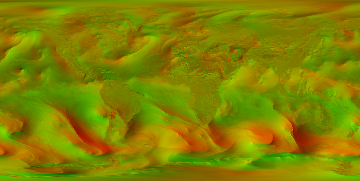
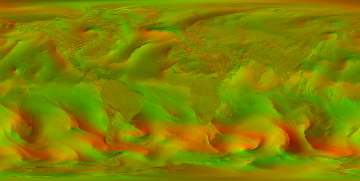
Altitude wind levels: Sfc/850/500/250 hPa particle layers
The Windy tour's level slider, realized. Pressure-level GFS U/V decodes
with the same pure-Python template-5.3 path as 10m wind — four NOMADS
fetches pinned to ONE resolved cycle so the switcher never mixes runs.
"latest" keeps its name as the surface file (committed artifacts and old
clients stay valid); levels ship as data/wind/{850,500,250}.{png,json}.

windLayer.setLevel() is a teardown+re-init: old-level trails would lie
at the new level. Chips show only while particles run; choice persists.

Verified: max speeds ascend physically (26.6/42.4/64.0/102.6 m/s), and
the 250hPa picker cross-checks against Open-Meteo GFS in the southern
winter jet: 37.8 m/s @ 172 vs 40.9 @ 173.

diff --git a/src/particles/windLayer.ts b/src/particles/windLayer.ts
@@ -12,10 +12,17 @@ import type { Map as MapLibreMap } from 'maplibre-gl';
 import { WindEngine } from './engine';
 import type { EngineParams, ViewState, WindField } from './engine';
 
-/** Same-origin artifact produced by scripts/build_wind_texture.py (Tier B cron on Pages,
- *  committed snapshot in dev). Relative path on purpose — works at "/" and "/<repo>/". */
-const TEXTURE_URL = 'data/wind/latest.png';
-const SIDECAR_URL = 'data/wind/latest.json';
+/** Same-origin artifacts produced by scripts/build_wind_texture.py (Tier B cron on Pages,
+ *  committed snapshots in dev). Relative paths on purpose — work at "/" and "/<repo>/".
+ *  File ids are the builder contract: "latest" is the surface level (its P1-era name, kept
+ *  so old artifacts and clients stay valid); pressure levels are named by their hPa. */
+export const WIND_LEVELS = [
+  { id: 'latest', label: 'Sfc', title: '10 m wind' },
+  { id: '850', label: '850', title: '850 hPa (~1.5 km)' },
+  { id: '500', label: '500', title: '500 hPa (~5.5 km)' },
+  { id: '250', label: '250', title: '250 hPa — jet stream (~10.5 km)' },
+] as const;
+export type WindLevelId = (typeof WIND_LEVELS)[number]['id'];
 
 export interface WindMeta {
   cycle: string;
@@ -60,6 +67,30 @@ export class WindLayer {
   /** Decoded pixel data kept CPU-side for the picker — same texels the shader samples. */
   private pixels: Uint8ClampedArray | null = null;
   meta: WindMeta | null = null;
+  private levelId: WindLevelId = 'latest';
+
+  get level(): WindLevelId {
+    return this.levelId;
+  }
+
+  /**
+   * Switch altitude. The engine's field is set at init, so a level change is a teardown:
+   * dispose, forget the field, re-init from the new level's texture. Particle trails from
+   * the old level would be a lie at the new one — the clear is intentional, not cosmetic.
+   */
+  async setLevel(id: WindLevelId): Promise<void> {
+    if (id === this.levelId) return;
+    this.levelId = id;
+    const wasRunning = this.running;
+    this.stop();
+    this.engine?.dispose();
+    this.engine = null;
+    this.gl = null;
+    this.field = null;
+    this.pixels = null;
+    this.meta = null;
+    if (wasRunning) await this.start();
+  }
 
   constructor(
     private map: MapLibreMap,
@@ -110,8 +141,9 @@ export class WindLayer {
   }
 
   private async init(): Promise<void> {
+    const base = `data/wind/${this.levelId}`;
     const [meta, image] = await Promise.all([
-      fetch(SIDECAR_URL).then((r) => {
+      fetch(`${base}.json`).then((r) => {
         if (!r.ok) throw new Error('wind sidecar missing — run scripts/build_wind_texture.py');
         return r.json() as Promise<WindMeta>;
       }),
@@ -119,7 +151,7 @@ export class WindLayer {
         const img = new Image();
         img.onload = () => resolve(img);
         img.onerror = () => reject(new Error('wind texture missing'));
-        img.src = TEXTURE_URL;
+        img.src = `${base}.png`;
       }),
     ]);
     this.meta = meta;

diff --git a/src/main.ts b/src/main.ts
@@ -40,7 +40,8 @@ import type { CardState } from './ui/forecastCard';
 import { addLocation, loadLocations, locationKey, removeLocation } from './ui/locations';
 import type { SavedLocation } from './ui/locations';
 import { buildSourcesDialog, renderFooter } from './ui/attribution';
-import { WindLayer } from './particles/windLayer';
+import { WIND_LEVELS, WindLayer } from './particles/windLayer';
+import type { WindLevelId } from './particles/windLayer';
 import { RadarLayer } from './layers/radar';
 import { SatelliteLayer } from './layers/satellite';
 import { DivergenceLayer } from './layers/divergence';
@@ -340,9 +341,43 @@ async function setWind(on: boolean): Promise<void> {
   }
   windToggle.classList.toggle('is-on', windLayer.isRunning);
   localStorage.setItem(WIND_PREF_KEY, windLayer.isRunning ? 'on' : 'off');
+  syncWindLevels();
 }
 
 windToggle.addEventListener('click', () => void setWind(!windLayer.isRunning));
+
+// Altitude switcher (tour idea #4's sibling): chips appear only while the layer runs —
+// a level choice with no particles on screen would be a dead control.
+const WIND_LEVEL_KEY = 'aether.windlevel';
+const windLevels = document.createElement('div');
+windLevels.id = 'wind-levels';
+windLevels.hidden = true;
+for (const l of WIND_LEVELS) {
+  const b = document.createElement('button');
+  b.textContent = l.label;
+  b.title = l.title;
+  b.dataset['level'] = l.id;
+  b.addEventListener('click', () => {
+    void windLayer.setLevel(l.id).then(() => {
+      localStorage.setItem(WIND_LEVEL_KEY, l.id);
+      syncWindLevels();
+    });
+  });
+  windLevels.append(b);
+}
+windToggle.after(windLevels);
+
+function syncWindLevels(): void {
+  windLevels.hidden = !windLayer.isRunning;
+  for (const b of windLevels.querySelectorAll('button')) {
+    b.classList.toggle('is-on', b.dataset['level'] === windLayer.level);
+  }
+}
+
+{
+  const saved = localStorage.getItem(WIND_LEVEL_KEY) as WindLevelId | null;
+  if (saved && WIND_LEVELS.some((l) => l.id === saved)) void windLayer.setLevel(saved);
+}
 
 // Battery: no animation while the tab is hidden. Resume follows the saved preference.
 document.addEventListener('visibilitychange', () => {

diff --git a/src/app.css b/src/app.css
@@ -400,3 +400,8 @@ html, body {
 .cme-row.muted { color: var(--muted, #8a93a6); }
 .cme-incoming { color: #ffb454; }
 .cme-note { margin: -0.2rem 0 0.4rem; font-size: 0.74rem; color: var(--muted, #8a93a6); }
+
+/* Wind altitude chips */
+#wind-levels { display: inline-flex; gap: 2px; margin-left: 4px; }
+#wind-levels button { font-size: 10px; padding: 2px 6px; opacity: 0.75; }
+#wind-levels button.is-on { opacity: 1; outline: 1px solid var(--accent, #6ea8fe); }

diff --git a/scripts/build_wind_texture.py b/scripts/build_wind_texture.py
@@ -69,16 +69,31 @@ def fetch_with_retry(url: str) -> bytes:
     raise RuntimeError(f"fetch failed after retries: {last}")
 
 
-def fetch_latest_grib() -> tuple[bytes, str, str]:
+# Altitude levels (backlog item 3, from the Windy tour's level slider). File names are the
+# client contract: src/particles/windLayer.ts derives URLs as data/wind/<id>.{png,json}.
+# "latest" stays the surface level's name so the P1-era committed artifact remains the
+# last-known-good and old clients keep working untouched.
+LEVELS = [
+    ("latest", "lev_10_m_above_ground=on", "10 m wind"),
+    ("850", "lev_850_mb=on", "850 hPa wind"),
+    ("500", "lev_500_mb=on", "500 hPa wind"),
+    ("250", "lev_250_mb=on", "250 hPa wind (jet level)"),
+]
+
+
+def grib_url(date: str, run: str, level_param: str) -> str:
+    return (
+        f"{NOMADS}?file=gfs.t{run}z.pgrb2.0p25.f000"
+        f"&{level_param}&var_UGRD=on&var_VGRD=on"
+        f"&dir=%2Fgfs.{date}%2F{run}%2Fatmos"
+    )
+
+
+def fetch_latest_grib(level_param: str) -> tuple[bytes, str, str]:
     """Try cycles newest-first until one returns actual GRIB."""
     for date, run in candidate_cycles():
-        url = (
-            f"{NOMADS}?file=gfs.t{run}z.pgrb2.0p25.f000"
-            f"&lev_10_m_above_ground=on&var_UGRD=on&var_VGRD=on"
-            f"&dir=%2Fgfs.{date}%2F{run}%2Fatmos"
-        )
         print(f"trying GFS {date} {run}Z ...")
-        raw = fetch_with_retry(url)
+        raw = fetch_with_retry(grib_url(date, run, level_param))
         if raw.startswith(b"GRIB"):
             print(f"  got {len(raw):,} bytes")
             return raw, date, run
@@ -88,14 +103,7 @@ def fetch_latest_grib() -> tuple[bytes, str, str]:
     raise RuntimeError("no publishable GFS cycle found in the last 24 h")
 
 
-def main() -> int:
-    ap = argparse.ArgumentParser(description=__doc__)
-    ap.add_argument("--stride", type=int, default=4, help="grid decimation (4 -> 360x181, ~1 deg)")
-    ap.add_argument("--out", default="public/data/wind/latest.png")
-    args = ap.parse_args()
-
-    raw, date, run = fetch_latest_grib()
-
+def build_level(raw: bytes, out: Path, stride: int, date: str, run: str, variable: str) -> None:
     fields: dict[str, np.ndarray] = {}
     for msg in split_messages(raw):
         m = parse_message(msg)
@@ -105,10 +113,9 @@ def main() -> int:
             print(f"  decoded {name.upper()}GRD {m['nj']}x{m['ni']} template 5.{m['drt']}")
 
     if "u" not in fields or "v" not in fields:
-        print("ERROR: missing UGRD or VGRD in response", file=sys.stderr)
-        return 1
+        raise RuntimeError(f"missing UGRD or VGRD in response for {variable}")
 
-    s = args.stride
+    s = stride
     u, v = fields["u"][::s, ::s], fields["v"][::s, ::s]
     half = u.shape[1] // 2
     u, v = np.roll(u, half, axis=1), np.roll(v, half, axis=1)
@@ -119,7 +126,6 @@ def main() -> int:
     rgba[..., 1] = np.round((v + extent) / (2 * extent) * 255).astype(np.uint8)
     rgba[..., 3] = 255
 
-    out = Path(args.out)
     out.parent.mkdir(parents=True, exist_ok=True)
     Image.fromarray(rgba, "RGBA").save(out, optimize=True)
 
@@ -130,7 +136,7 @@ def main() -> int:
         "cycle": f"{date}T{run}00Z",
         "validTime": f"{date[0:4]}-{date[4:6]}-{date[6:8]}T{run}:00:00Z",
         "forecastHour": 0,
-        "variable": "10 m wind",
+        "variable": variable,
         "width": int(u.shape[1]),
         "height": int(u.shape[0]),
         "uMin": -extent, "uMax": extent,
@@ -145,6 +151,28 @@ def main() -> int:
 
     print(f"wrote {out} ({out.stat().st_size:,} B, {u.shape[1]}x{u.shape[0]})")
     print(f"wrote {out.with_suffix('.json')}  cycle {date}/{run}Z  max {speed.max():.1f} m/s")
+
+
+def main() -> int:
+    ap = argparse.ArgumentParser(description=__doc__)
+    ap.add_argument("--stride", type=int, default=4, help="grid decimation (4 -> 360x181, ~1 deg)")
+    ap.add_argument("--outdir", default="public/data/wind")
+    args = ap.parse_args()
+
+    outdir = Path(args.outdir)
+
+    # Resolve the newest published cycle ONCE (surface fetch walks back), then pin every
+    # other level to that same cycle so the level switcher never mixes model runs.
+    first_id, first_param, first_var = LEVELS[0]
+    raw, date, run = fetch_latest_grib(first_param)
+    build_level(raw, outdir / f"{first_id}.png", args.stride, date, run, first_var)
+
+    for level_id, level_param, variable in LEVELS[1:]:
+        raw = fetch_with_retry(grib_url(date, run, level_param))
+        if not raw.startswith(b"GRIB"):
+            raise RuntimeError(f"{variable}: cycle {date}/{run}Z answered non-GRIB")
+        build_level(raw, outdir / f"{level_id}.png", args.stride, date, run, variable)
+
     return 0
 
 

diff --git a/docs/ACTION_PLAN.md b/docs/ACTION_PLAN.md
@@ -693,3 +693,18 @@ fetch behind a 3 h cache. Tier A, no key management at all.
   429 tolerated in CI because DEMO_KEY quota is per-IP and runners share pools.
 - Verified live at ship time with a real event: Earth-directed CME, shock arrival
   2026-08-20 12:00Z (~54 h out), predicted Kp 0–4, from the 2026-08-16 23:00Z Enlil run.
+
+### 10.3 Altitude wind levels — SHIPPED 2026-08-18. The level slider, Aether-style.
+
+The Windy tour's level slider (16 levels there), realized as four: Sfc / 850 / 500 / 250 hPa.
+Pressure-level GFS U/V decodes with the SAME pure-Python template-5.3 path as 10 m wind —
+no decoder work, just four NOMADS filter fetches pinned to one resolved cycle (the switcher
+must never mix model runs). "latest" keeps its P1-era name as the surface file so committed
+artifacts and old clients stay valid; levels are data/wind/{850,500,250}.{png,json}.
+
+- windLayer gains setLevel(): teardown + re-init (trails from the old level would be a lie
+  at the new one). Chips render only while particles run; choice persists.
+- Build verified physical: max speeds ascend 26.6 → 42.4 → 64.0 → 102.6 m/s (Sfc→250).
+- Picker cross-checked at 250 hPa against Open-Meteo GFS south of NZ (winter jet):
+  37.8 m/s @ 172° vs 40.9 @ 173° — direction within 1°, speed within the known
+  decimation+quantization cost.
